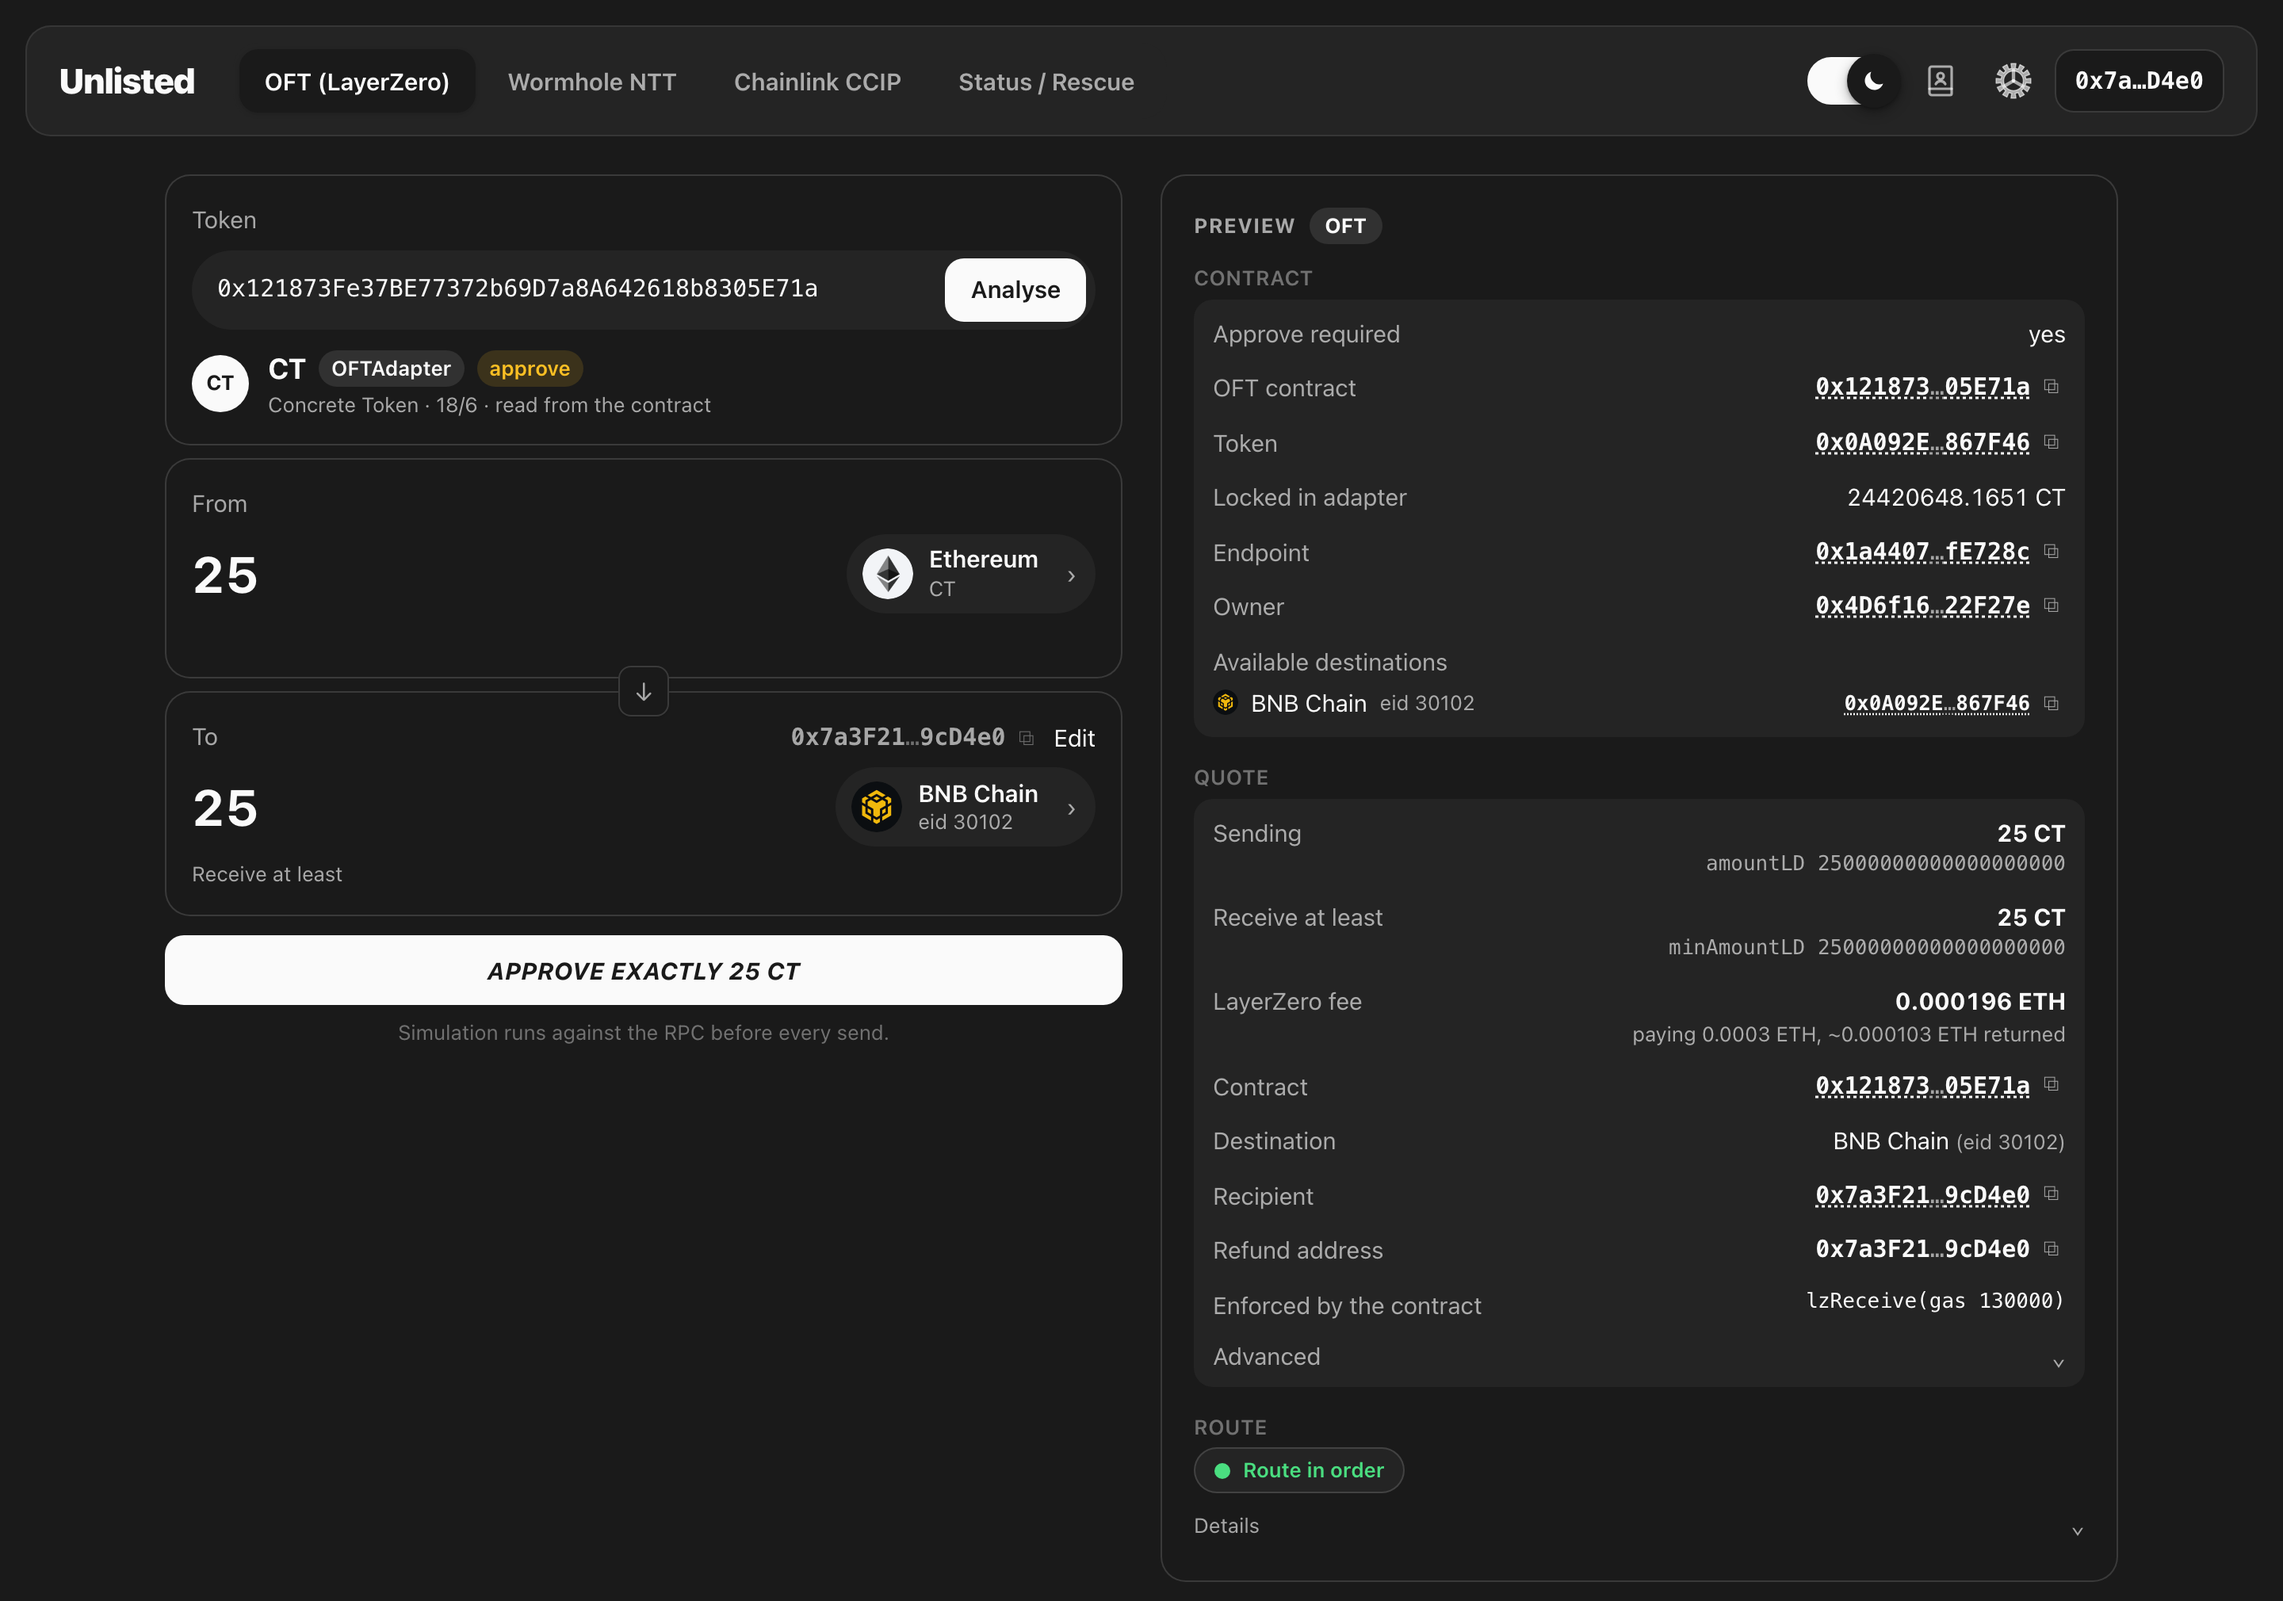
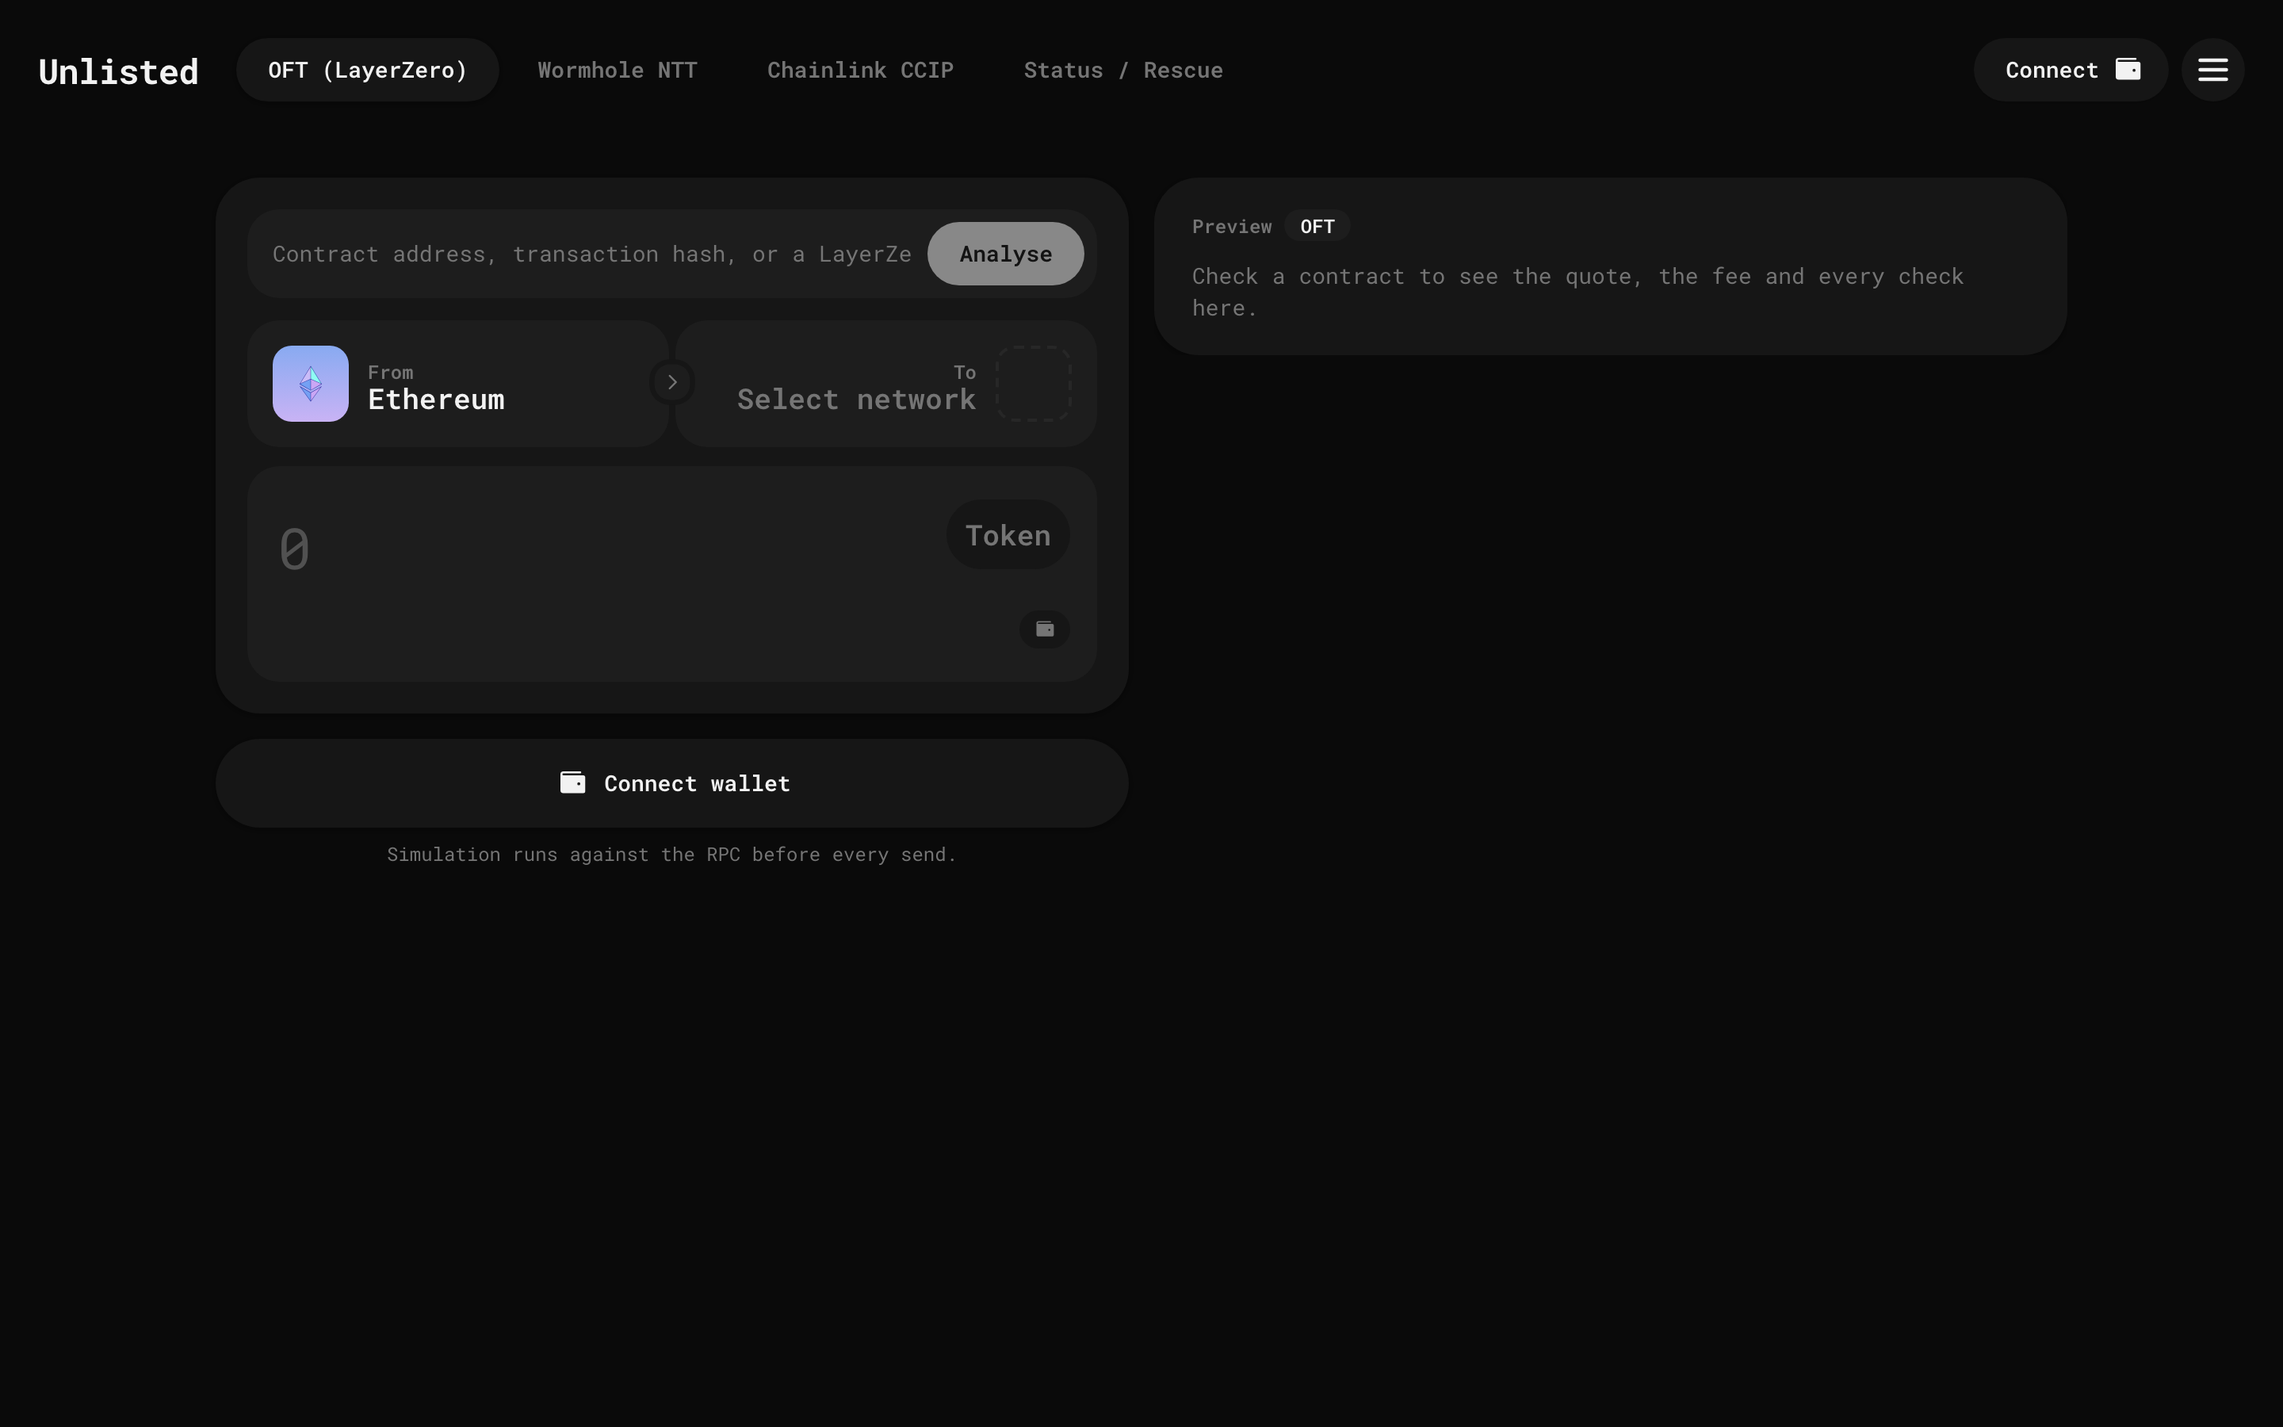
README: скриншот нового интерфейса — свежий экран моста
Кошелёк не подключён, источник Ethereum, истории нет: мост таким, каким он открывается со
стартового экрана. Подпись под снимком переписана под этот кадр.

diff --git a/README.md b/README.md
@@ -10,11 +10,11 @@
 </p>
 
 <p align="center">
-  <img src="docs/screenshot.png" alt="Unlisted — CT read from its OFTAdapter on Ethereum, route to BNB Chain in order, ready to approve 25 CT" width="820">
+  <img src="docs/screenshot.png" alt="Unlisted — the bridge as it opens: a field for the contract, Ethereum as the source, the destination and the amount still to choose" width="820">
 </p>
 
 <p align="center">
-  <sub>Nothing in that panel was typed in or looked up in a list — every field was read from the contracts, and the green chip is eight on-chain checks of the route. The wallet address is masked.</sub>
+  <sub>Paste a contract and everything else — the token, its destinations, the quote and every check — is read from the chain and shown in the panel on the right.</sub>
 </p>
 
 ---
